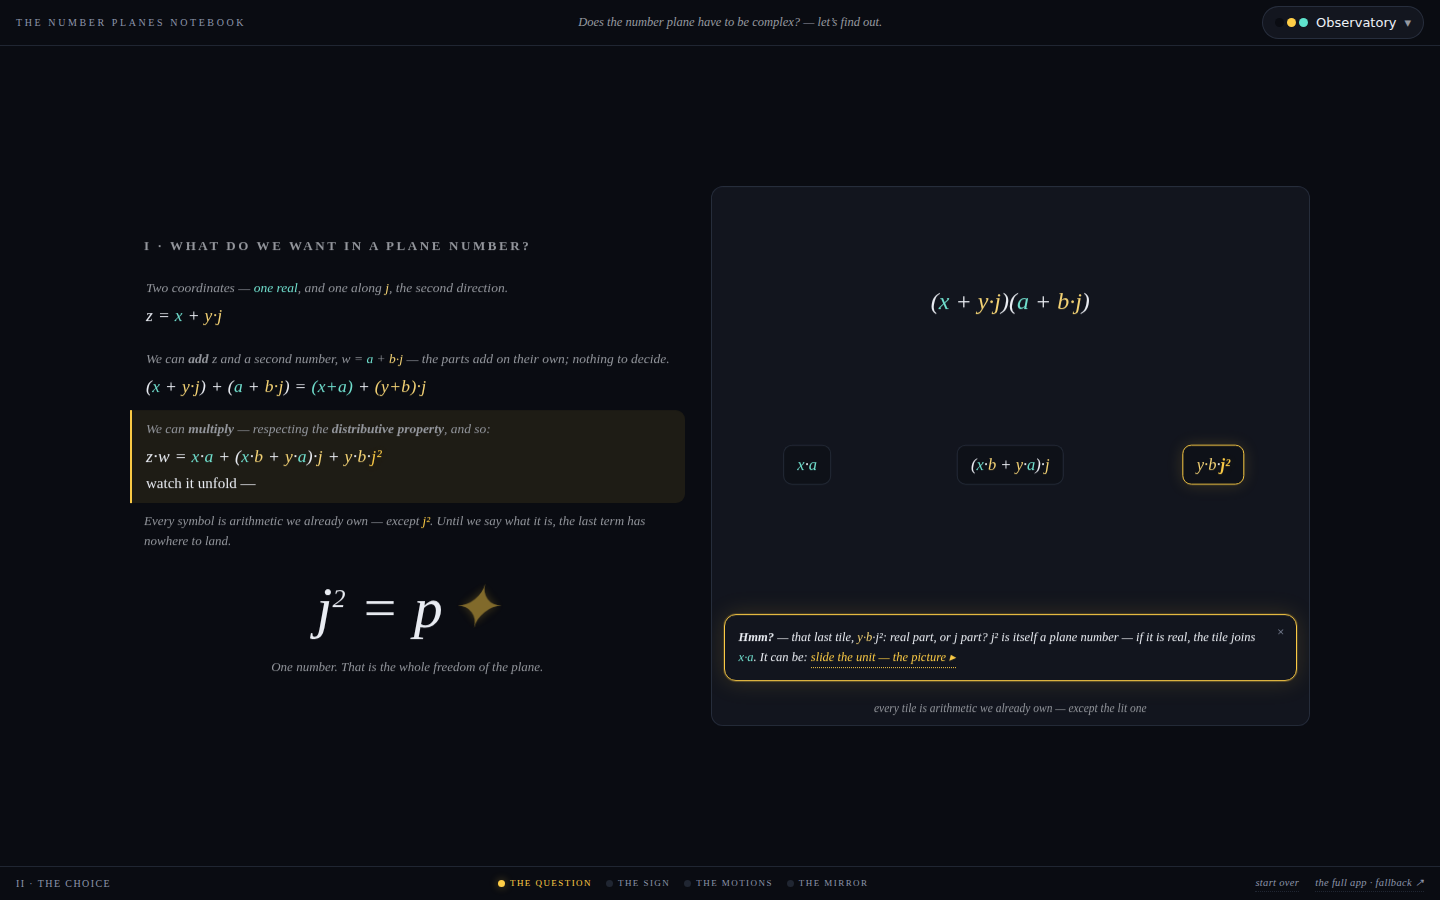
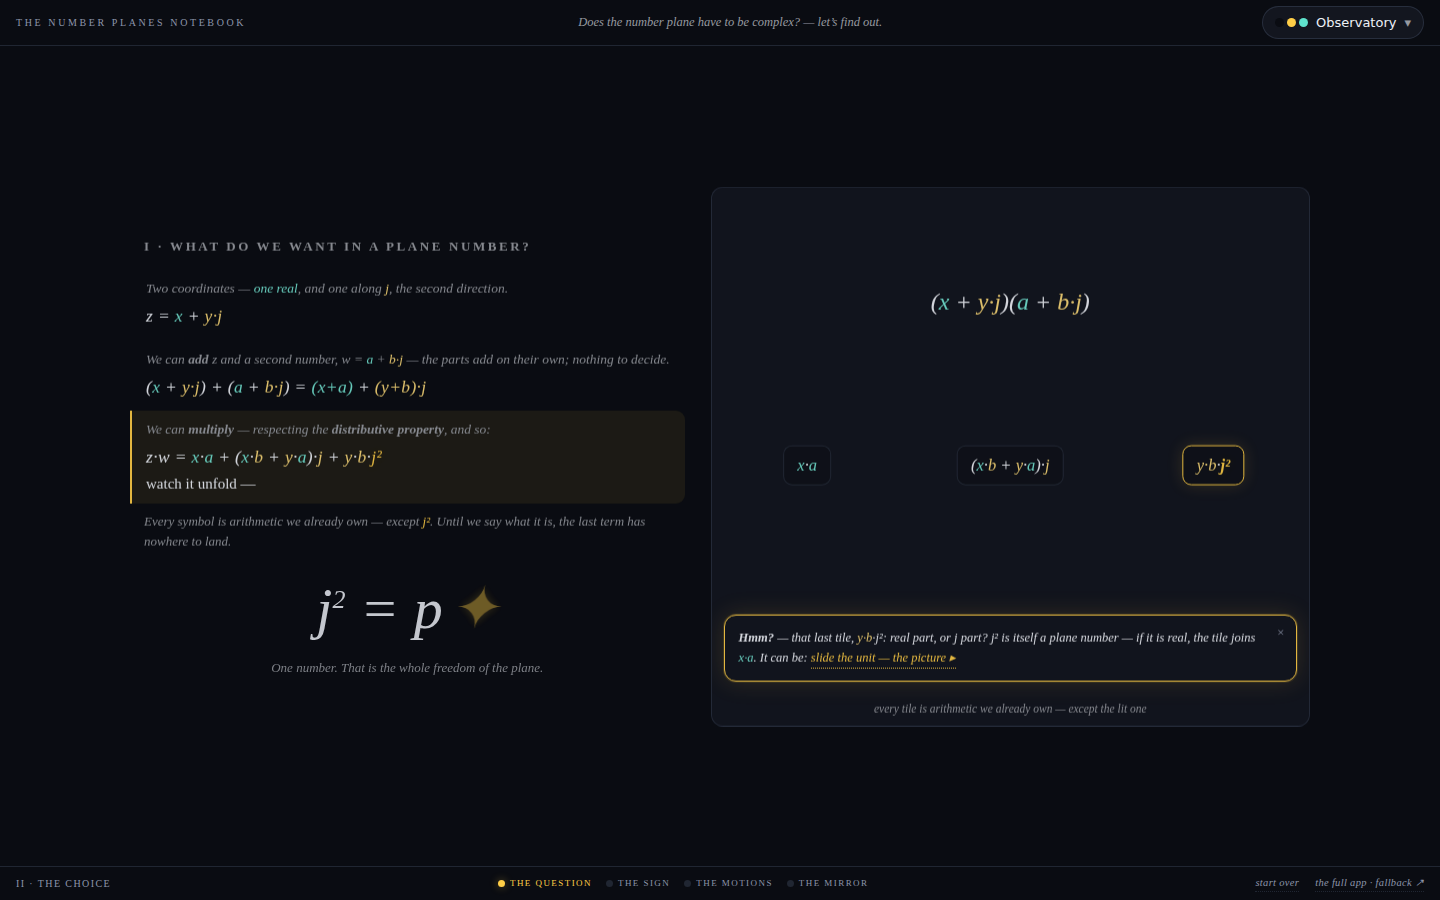
notebook: responsive FOIL staging, crossfaded tweens, x earns its unlock
(1) The FOIL stage now fits every pane: on narrow screens the four
terms land in a 2x2 grid and the collected trio stacks vertically —
slot positions computed from the pane width, tiles smaller on phone;
verified in-bounds mid-animation and at rest at 390px. (2) The tweens
smoothed: captions crossfade instead of hard-swapping, factor glows
transition, term flights overlap slightly with a touch of rotation,
and the collect meets at a true midpoint on any layout. (3) The x
switch is locked until the multiplication has been talked through
(watch the FOIL once) — then it unlocks with a shimmer, the + caption
gains 'Now try x —', and the rail carries a small j2 label: the number
line at the arrow's end, introduced only after it has context.

Claude-Session: https://claude.ai/code/session_01GjaHS6vrS2ewLxz73eSZFA

diff --git a/public/number-planes/notebook.html b/public/number-planes/notebook.html
@@ -165,7 +165,10 @@ body.noanim *{transition:none !important; animation:none !important}
 .hmm .dismiss:hover{color:var(--light)}
 .linkish{font-style:italic; font-size:12.5px; color:var(--light); text-decoration:none;
   border-bottom:1px dotted var(--light)}
+.factors span{transition:color .4s ease, text-shadow .4s ease}
 .factors .lit{color:var(--light) !important; text-shadow:0 0 12px var(--glow)}
+.optoggle button:disabled{opacity:.35; cursor:default}
+.optoggle button:disabled:hover{color:var(--ink-faint)}
 .optoggle{position:absolute; top:8px; right:10px; z-index:3; display:flex; gap:2px;
   border:1px solid var(--hair); border-radius:8px; overflow:hidden}
 .optoggle[hidden]{display:none}
@@ -393,7 +396,8 @@ svg text{font-family:inherit; user-select:none; -webkit-user-select:none}
   .topbar .runhead{display:none}
   #zSection .cols{display:flex; flex-direction:column; gap:12px}
   .illo{height:auto; flex:0 0 46%}
-  #foilbox .factors{padding-top:8%}
+  #foilbox .factors{padding-top:6%}
+  .tile{font-size:13px; padding:5px 9px}
   #zSplit{flex-direction:column; gap:14px; overflow:hidden}
   #zSplit .lead{max-width:none; flex:0 0 auto}
   .cards3{flex-direction:column; gap:10px; overflow:hidden}
@@ -994,6 +998,10 @@ const AW={zx:1.25,zy:.7,wx:1.05,wy:.8,op:'+',p:-1};
 function drawAddWidget(){
   const svg=$('planeIllo'), cap=$('illocap');
   $('optoggle').hidden=false;
+  const xb=document.querySelector('#optoggle button[data-op="×"]');
+  xb.disabled=!foilPlayed;
+  xb.title=foilPlayed?'':'after the multiplication —';
+  if(AW.op==='×'&&!foilPlayed) AW.op='+';
   $('minidial').hidden=AW.op!=='×';
   svg.innerHTML=''; illoAxes(svg);
   const {zx:x,zy:y,wx:a,wy:b,op}=AW;
@@ -1017,7 +1025,8 @@ function drawAddWidget(){
     svg.appendChild(el('path',{d:poly([[0,y],[0,Y]]),stroke:'var(--im)','stroke-width':.06,opacity:.55,fill:'none'}));
     label(svg,x/2-.08,-.3,'x','var(--re)',.2); label(svg,x+a/2-.08,-.3,'a','var(--re)',.2);
     label(svg,-.34,y/2+.05,'y','var(--im)',.2); label(svg,-.34,y+b/2+.05,'b','var(--im)',.2);
-    cap.innerHTML='drag <b>z</b> or <b>w</b> — <span class="re">x adds a</span>, <span class="im">y adds b</span>; the parts never mix. Try <b>×</b> —';
+    cap.innerHTML='drag <b>z</b> or <b>w</b> — <span class="re">x adds a</span>, <span class="im">y adds b</span>; the parts never mix.'
+      +(foilPlayed?' Now try <b>×</b> —':'');
   } else {
     // the product's j-coordinate never feels j²: the landing slides on a rail
     const jy=x*b+y*a;
@@ -1030,6 +1039,7 @@ function drawAddWidget(){
         stroke:'var(--ink-soft)','stroke-width':.026}));
       label(svg,qt[0]-.14,jy+.16,(pv===-1?'−1':pv===0?'0':'+1'),'var(--ink-faint)',.15);
     }
+    label(svg,Math.max(q0[0],q1[0])+.12,jy-.05,'j²','var(--ink-soft)',.17);
     const q=mul(AW.p,[x,y],[a,b]);
     svg.appendChild(el('path',{d:poly([[0,0],q]),stroke:'var(--light)','stroke-width':.03,
       'stroke-dasharray':'.08 .06',fill:'none'}));
@@ -1041,6 +1051,7 @@ function drawAddWidget(){
   }
 }
 document.querySelectorAll('#optoggle button').forEach(bt=>bt.addEventListener('click',()=>{
+  if(bt.disabled) return;
   AW.op=bt.dataset.op;
   document.querySelectorAll('#optoggle button').forEach(x=>x.classList.toggle('on',x===bt));
   drawAddWidget();
@@ -1085,6 +1096,19 @@ const TERMS=[
   {a:'f_yj',b:'f_vj',h:'<span class="im">y·b</span>·<span class="hh">j²</span>', x:88, hot:true},
 ];
 const zzz=ms=>new Promise(r=>setTimeout(r,ms));
+function setCap(html){const cap=$('illocap');
+  if(!animate){cap.innerHTML=html; return;}
+  cap.animate([{opacity:1},{opacity:0}],{duration:170,easing:'ease-in'}).finished.then(()=>{
+    cap.innerHTML=html;
+    cap.animate([{opacity:0},{opacity:1}],{duration:280,easing:'ease-out'});
+  });
+}
+function foilSlots(){
+  const narrow=$('foilbox').clientWidth<520;
+  return narrow
+    ? {foil:[[26,38],[74,38],[26,62],[74,62]], merge:[50,50], final:[[50,30],[50,52],[50,74]]}
+    : {foil:[[12,55],[38,55],[62,55],[88,55]], merge:[50,55], final:[[16,55],[50,55],[84,55]]};
+}
 function tileCenter(elm){const r=elm.getBoundingClientRect(); return [r.left+r.width/2, r.top+r.height/2];}
 async function runFoilAnim(){
   if(foilPlaying) return;
@@ -1094,6 +1118,7 @@ async function runFoilAnim(){
   const litOff=()=>document.querySelectorAll('.factors .lit').forEach(e=>e.classList.remove('lit'));
   if(!animate){ foilPlaying=false; foilFinal(); if(M===1) advance(2); return; }
   const EASE='cubic-bezier(.22,.9,.3,1)';
+  const SL=foilSlots();
   const tiles=[];
   const caps=['<span class="re">x</span> meets <span class="re">a</span>',
     '<span class="re">x</span> meets <span class="im">b·j</span>',
@@ -1103,56 +1128,64 @@ async function runFoilAnim(){
   for(let i=0;i<TERMS.length;i++){
     const tm=TERMS[i];
     litOff(); $(tm.a).classList.add('lit'); $(tm.b).classList.add('lit');
-    cap.innerHTML=caps[i];
+    setCap(caps[i]);
     // the term is BORN between the two factors that make it, and rises into place
     const d=mkTile(tm.h,tm.hot?'hot':'');
-    d.style.left=tm.x+'%'; d.style.top='55%';
+    d.style.left=SL.foil[i][0]+'%'; d.style.top=SL.foil[i][1]+'%';
     const [ax,ay]=tileCenter($(tm.a)), [bx,by]=tileCenter($(tm.b));
     const [cx,cy]=tileCenter(d);
     const dx=(ax+bx)/2-cx, dy=(ay+by)/2-cy;
     d.animate([
-      {transform:`translate(-50%,-50%) translate(${dx}px,${dy}px) scale(.35)`, opacity:0},
-      {transform:`translate(-50%,-50%) translate(${dx*.45}px,${dy*.55-26}px) scale(1.04)`, opacity:1, offset:.62},
-      {transform:'translate(-50%,-50%) scale(1)', opacity:1}
-    ],{duration:1050, easing:EASE, fill:'backwards'});
+      {transform:`translate(-50%,-50%) translate(${dx}px,${dy}px) scale(.35) rotate(-3deg)`, opacity:0},
+      {transform:`translate(-50%,-50%) translate(${dx*.42}px,${dy*.5-24}px) scale(1.03) rotate(1deg)`, opacity:1, offset:.6},
+      {transform:'translate(-50%,-50%) scale(1) rotate(0deg)', opacity:1}
+    ],{duration:1200, easing:EASE, fill:'backwards'});
     d.animate([{boxShadow:'0 0 0 0 transparent'},
       {boxShadow:'0 0 22px 4px var(--glow-soft)', offset:.7},
-      {boxShadow:'0 0 0 0 transparent'}],{duration:1300, easing:'ease-out'});
+      {boxShadow:'0 0 0 0 transparent'}],{duration:1400, easing:'ease-out'});
     tiles.push(d);
-    await zzz(1050);
+    await zzz(920);
   }
-  litOff();
+  await zzz(350); litOff();
   // the two bare-j tiles drift together; the collected term emerges from their union
-  cap.innerHTML='two tiles carry a bare <span class="im">j</span> — like terms: collect them';
-  await zzz(500);
+  setCap('two tiles carry a bare <span class="im">j</span> — like terms: collect them');
+  await zzz(600);
   const [c1,c2]=[tiles[1],tiles[2]];
+  const rf=fb.getBoundingClientRect();
+  const mx=rf.left+rf.width*SL.merge[0]/100, my=rf.top+rf.height*SL.merge[1]/100;
   for(const [t2,dir] of [[c1,1],[c2,-1]]){
     t2.style.transition='none';
-    const r=t2.getBoundingClientRect(), rf=fb.getBoundingClientRect();
-    const gx=rf.left+rf.width*.5-(r.left+r.width/2);
+    const r=t2.getBoundingClientRect();
+    const gx=mx-(r.left+r.width/2), gy=my-(r.top+r.height/2);
     t2.animate([
       {transform:'translate(-50%,-50%)'},
-      {transform:`translate(-50%,-50%) translate(${gx}px,0) rotate(${4*dir}deg) scale(.45)`, opacity:.25}
-    ],{duration:750, easing:'cubic-bezier(.5,0,.8,.4)', fill:'forwards'});
+      {transform:`translate(-50%,-50%) translate(${gx}px,${gy}px) rotate(${4*dir}deg) scale(.45)`, opacity:.25}
+    ],{duration:850, easing:'cubic-bezier(.45,0,.55,1)', fill:'forwards'});
   }
-  await zzz(730);
+  await zzz(820);
   c1.remove(); c2.remove();
   const m=mkTile('(<span class="re">x</span>·<span class="im">b</span> + <span class="im">y</span>·<span class="re">a</span>)·<span class="im">j</span>');
-  m.style.left='50%'; m.style.top='55%';
+  m.style.left=SL.merge[0]+'%'; m.style.top=SL.merge[1]+'%';
   m.animate([
     {transform:'translate(-50%,-50%) scale(.4)', opacity:0, boxShadow:'0 0 30px 8px var(--glow)'},
-    {transform:'translate(-50%,-50%) scale(1.07)', opacity:1, boxShadow:'0 0 16px 3px var(--glow-soft)', offset:.7},
+    {transform:'translate(-50%,-50%) scale(1.06)', opacity:1, boxShadow:'0 0 16px 3px var(--glow-soft)', offset:.7},
     {transform:'translate(-50%,-50%) scale(1)', boxShadow:'0 0 0 0 transparent'}
-  ],{duration:750, easing:EASE});
+  ],{duration:850, easing:EASE});
   tiles[1]=m;
-  await zzz(900);
+  await zzz(950);
   // settle: real · j · and the unplaced third — Hmm?
-  cap.innerHTML='real part · j part · and <span class="hh" style="color:var(--light)">y·b·j²</span> — third place, until j² gets a value';
-  tiles[0].style.left='16%'; tiles[1].style.left='50%'; tiles[3].style.left='84%';
-  await zzz(1250);
+  setCap('real part · j part · and <span class="hh" style="color:var(--light)">y·b·j²</span> — third place, until j² gets a value');
+  [[tiles[0],0],[tiles[1],1],[tiles[3],2]].forEach(([t2,i])=>{
+    t2.style.left=SL.final[i][0]+'%'; t2.style.top=SL.final[i][1]+'%';});
+  await zzz(1350);
   $('hmm').hidden=false;
   foilPlaying=false; foilPlayed=true;
+  unlockTimes();
   if(M===1) advance(2);
+}
+function unlockTimes(){
+  const xb=document.querySelector('#optoggle button[data-op="×"]');
+  if(xb&&xb.disabled){ xb.disabled=false; xb.classList.add('born'); }
 }
 function illoSetForce(mode){ const fp=foilPlaying; foilPlaying=false; illoSet(mode); foilPlaying=fp; }
 function foilFinal(){
@@ -1161,11 +1194,13 @@ function foilFinal(){
   const fb=$('foilbox');
   if(fb.querySelectorAll('.tile').length===3 && fb.querySelector('.bracket')) return;
   clearTiles();
+  const SL=foilSlots();
   const A=mkTile(TERMS[0].h), C=mkTile(TERMS[3].h,'hot'),
         B=mkTile('(<span class="re">x</span>·<span class="im">b</span> + <span class="im">y</span>·<span class="re">a</span>)·<span class="im">j</span>');
-  A.style.left='16%'; A.style.top='55%';
-  B.style.left='50%'; B.style.top='55%';
-  C.style.left='84%'; C.style.top='55%';
+  [[A,0],[B,1],[C,2]].forEach(([t2,i])=>{
+    t2.style.transition='none';
+    t2.style.left=SL.final[i][0]+'%'; t2.style.top=SL.final[i][1]+'%';});
+  unlockTimes();
   if(!hmmDismissed) $('hmm').hidden=false;
   $('illocap').innerHTML='every tile is arithmetic we already own — except the lit one';
 }